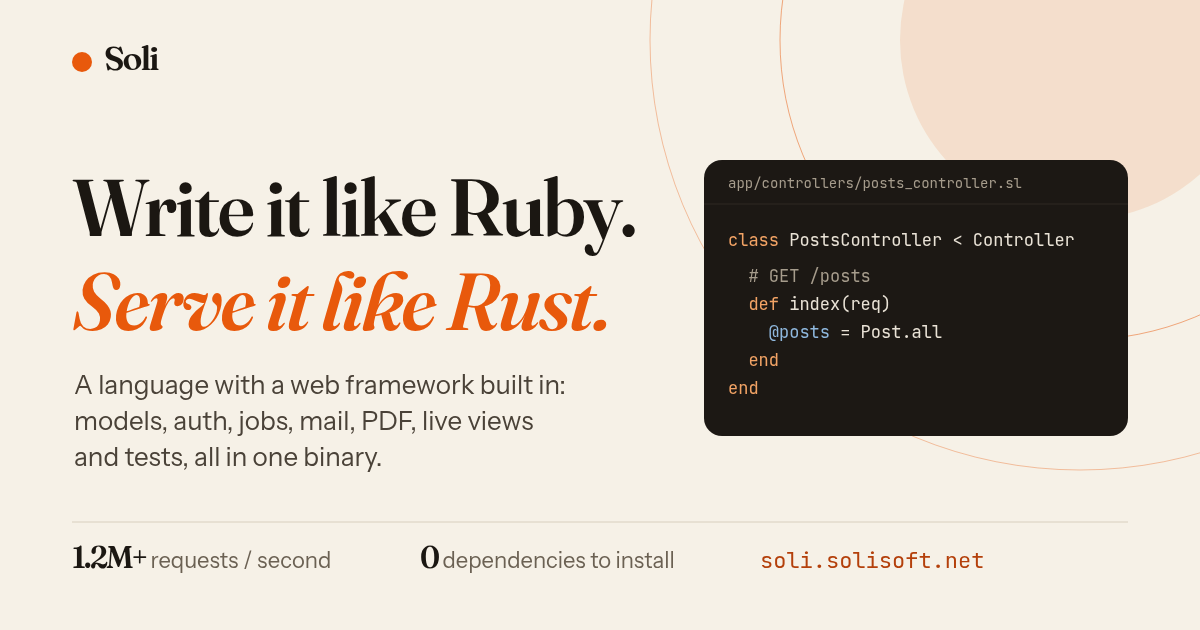
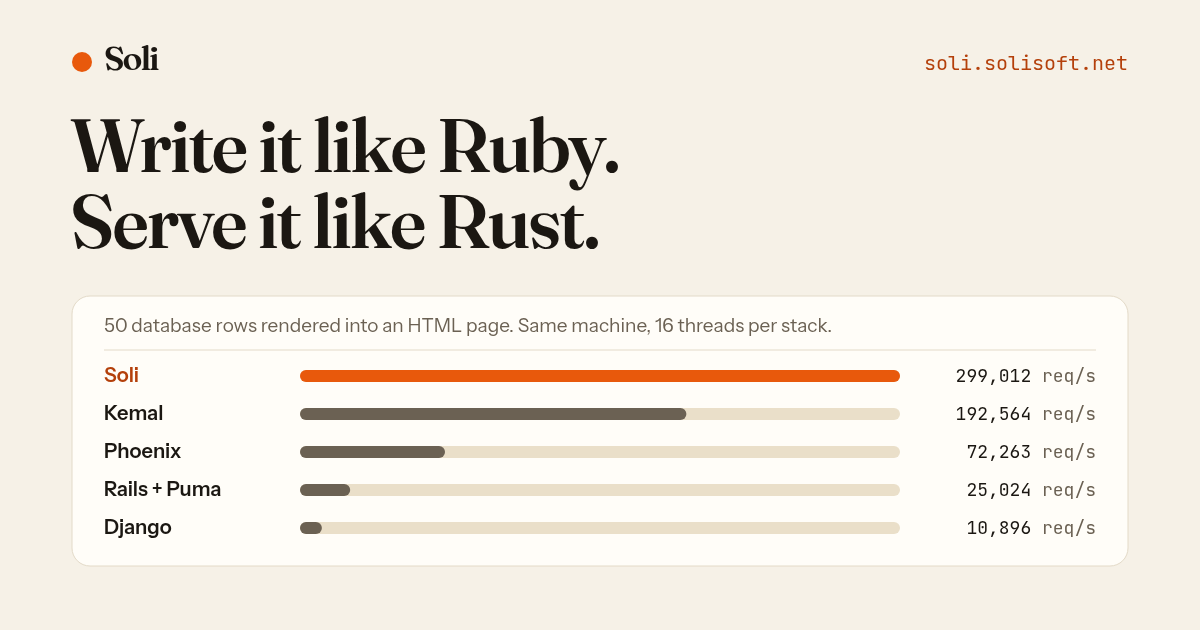
feat(www): home page hero leads with the throughput ramp
The hero sets "Write it like Ruby. / Serve it like Rust." over two lines
and puts a load ramp beside the controller code: the database-read
benchmark (fifty rows rendered into an HTML page, one machine) with each
stack stopping at the throughput it was measured at -- Soli 299,012
requests a second, p99 1.20 ms, 11.9x Rails + Puma's 25,024. The meta
description, the og:image and its alt text say the same.

diff --git a/www/public/css/landing.css b/www/public/css/landing.css
@@ -1,7 +1,6 @@
 /* Landing-page components, shared by every page on layouts/landing (home, AI). */
 .lp-section { padding: clamp(64px, 9vw, 120px) 0; }
 .lp-eyebrow { font-family: 'JetBrains Mono', monospace; font-size: 13px; color: var(--sun-text); }
-.lp-h1 { margin: 0; font-family: 'Fraunces', serif; font-weight: 600; font-size: clamp(40px, min(7vw, 9.5vh), 88px); line-height: 0.98; letter-spacing: -0.035em; }
 .lp-h2 { margin: 0; font-family: 'Fraunces', serif; font-weight: 600; font-size: clamp(34px, 4.6vw, 56px); line-height: 1.05; letter-spacing: -0.03em; }
 .lp-h3 { margin: 0; font-family: 'Fraunces', serif; font-weight: 600; font-size: 24px; letter-spacing: -0.02em; }
 .lp-lead { margin: 0; font-size: clamp(17px, 1.6vw, 20px); line-height: 1.6; color: var(--ink-soft); }
@@ -13,13 +12,45 @@
 .lp-btn-line:hover { background: var(--paper-sunk); }
 .lp-hero .lp-btn { min-height: clamp(46px, 6.5vh, 56px); }
 .lp-chip-cmd { font-family: 'JetBrains Mono', monospace; font-size: 15px; font-weight: 400; }
+@media (max-width: 420px) { .lp-chip-cmd { gap: 8px; padding: 0 18px; font-size: 12.5px; white-space: nowrap; } }
+@media (max-width: 420px) { .lp-chip-cmd { gap: 8px; padding: 0 18px; font-size: 12.5px; white-space: nowrap; } }
 .lp-link { display: inline-flex; align-items: center; gap: 8px; font-weight: 600; color: var(--sun-text); }
 .lp-link:hover { text-decoration: underline; text-underline-offset: 4px; }
 
-/* Sun motif */
-.lp-hero { position: relative; overflow: hidden; display: flex; align-items: center; min-height: calc(100vh - 81px); min-height: calc(100svh - 81px); }
-.lp-hero > .lp-wrap { width: 100%; }
-.lp-ring { position: absolute; border-radius: 50%; pointer-events: none; }
+/* Hero: slogan and copy beside the code, then the load ramp (markup and
+   numbers: home/index; the replay script sits at the bottom of that page). */
+.lp-hero { padding: clamp(28px, 5vh, 64px) 0 clamp(24px, 5vh, 56px); }
+.lp-hero-top { display: grid; grid-template-columns: minmax(0, 7fr) minmax(0, 5fr); gap: clamp(32px, 4vw, 56px); align-items: center; }
+.lp-hero-copy { display: flex; flex-direction: column; gap: clamp(18px, 3vh, 26px); min-width: 0; }
+.lp-hero-h1 { margin: 0; font-family: 'Fraunces', serif; font-weight: 600; font-size: clamp(42px, 5.2vw, 76px); line-height: 0.96; letter-spacing: -0.035em; }
+.lp-hero-h1 > span { white-space: nowrap; }
+.lp-hero .lp-code { box-shadow: none; }
+.lp-hero .lp-code-bar { flex-wrap: wrap; row-gap: 2px; padding-top: 8px; padding-bottom: 8px; }
+.lp-hero .lp-code pre { line-height: 1.65; }
+
+.lp-ramp { margin: clamp(32px, 6vh, 56px) 0 0; padding: 24px clamp(18px, 3vw, 36px) 22px; border-radius: 20px; background: var(--paper-raised); border: 1px solid var(--line-soft); }
+.lp-ramp-head { display: flex; flex-wrap: wrap; align-items: flex-end; justify-content: space-between; gap: 16px; padding-bottom: 18px; margin-bottom: 10px; border-bottom: 1px solid var(--line-soft); }
+.lp-ramp-label { font-size: 15px; color: var(--ink-faint); }
+.lp-ramp-load { font-family: 'Fraunces', serif; font-weight: 600; font-size: clamp(38px, 4.4vw, 58px); line-height: 1; letter-spacing: -0.02em; font-variant-numeric: tabular-nums; }
+.lp-ramp-unit { font-family: 'Instrument Sans', sans-serif; font-weight: 500; font-size: 18px; letter-spacing: 0; color: var(--ink-soft); }
+.lp-lane { display: grid; grid-template-columns: 150px minmax(0, 1fr) 8ch 19ch; column-gap: 20px; align-items: center; min-height: 40px; font-variant-numeric: tabular-nums; }
+.lp-lane-name { font-weight: 600; }
+.lp-lane.is-soli .lp-lane-name { color: var(--sun-text); }
+.lp-lane-track { height: 14px; border-radius: 7px; background: var(--paper-sunk); overflow: hidden; }
+.lp-lane-bar { height: 100%; border-radius: 7px; background: var(--ink-faint); }
+.lp-lane.is-soli .lp-lane-bar { background: var(--sun); }
+.lp-ramp.is-running .lp-lane:not(.is-capped):not(.is-soli) .lp-lane-bar { background: var(--ink-soft); }
+.lp-lane-value, .lp-lane-note { font-family: 'JetBrains Mono', monospace; font-size: 14px; white-space: nowrap; }
+.lp-lane-value { text-align: right; }
+.lp-lane-note { color: var(--ink-faint); }
+.lp-ramp.is-running .lp-lane:not(.is-capped) .lp-lane-note { visibility: hidden; }
+.lp-ramp-caption { margin-top: 14px; font-size: 14px; line-height: 1.55; color: var(--ink-faint); }
+/* Phones: name and number on one line, the bar under them, no p99 note */
+@media (max-width: 700px) {
+    .lp-lane { grid-template-columns: minmax(0, 1fr) auto; gap: 6px 12px; min-height: 0; padding: 6px 0; }
+    .lp-lane-track { grid-column: 1 / -1; grid-row: 2; }
+    .lp-lane-note { display: none; }
+}
 
 /* Code panels */
 .lp-code { border-radius: 18px; background: var(--night); color: #E9E2D6; overflow: hidden; box-shadow: 0 30px 60px -24px rgba(27, 23, 18, 0.45); }
@@ -34,16 +65,10 @@
 .lp-code .n { color: #E9E2D6; }
 .lp-code .ok { color: #7EC99A; }
 /* Hero sample: never scrolls. The type scales with the panel so its longest
-   line (43 columns; a JetBrains Mono column is 0.6em, so 25.8em) always fits. */
+   line (51 columns; a JetBrains Mono column is 0.6em, so 30.6em) always fits. */
 .lp-code-fit { container-type: inline-size; }
-.lp-code-fit pre { --pad: clamp(14px, 5cqi, 24px); padding: 22px var(--pad); font-size: min(14.5px, calc((100cqi - 2 * var(--pad)) / 26)); }
+.lp-code-fit pre { --pad: clamp(14px, 5cqi, 24px); padding: 20px var(--pad); font-size: min(14px, calc((100cqi - 2 * var(--pad)) / 31)); }
 
-/* Proof strip */
-.lp-proof { display: grid; grid-template-columns: repeat(4, minmax(0, 1fr)); border-top: 1px solid var(--ink); border-bottom: 1px solid var(--ink); }
-.lp-proof > div { display: flex; flex-direction: column; gap: 6px; padding: 32px 0 32px 24px; border-left: 1px solid var(--line); }
-.lp-proof > div:first-child { border-left: 0; padding-left: 0; }
-.lp-proof strong { font-family: 'Fraunces', serif; font-weight: 600; font-size: clamp(34px, 4vw, 48px); letter-spacing: -0.02em; }
-.lp-proof span { font-size: 16px; color: var(--ink-soft); }
 
 /* Cards */
 .lp-grid-2 { display: grid; grid-template-columns: repeat(2, minmax(0, 1fr)); gap: 24px; }
@@ -92,13 +117,11 @@
 .lp-cta .lp-btn-line:hover { background: rgba(27, 23, 18, .1); }
 
 .lp-split { display: grid; grid-template-columns: repeat(2, minmax(0, 1fr)); gap: 56px; align-items: center; }
-.lp-hero-grid { display: grid; grid-template-columns: minmax(0, 1.15fr) minmax(0, 0.85fr); gap: 48px; align-items: center; }
 
 @media (max-width: 900px) {
-    .lp-hero-grid, .lp-split, .lp-grid-2, .lp-grid-3 { grid-template-columns: 1fr; gap: 24px; }
+    .lp-split, .lp-grid-2, .lp-grid-3 { grid-template-columns: 1fr; gap: 24px; }
     .lp-split { gap: 40px; }
-    .lp-proof { grid-template-columns: repeat(2, minmax(0, 1fr)); }
-    .lp-proof > div:nth-child(3) { border-left: 0; padding-left: 0; }
+    .lp-hero-top { grid-template-columns: minmax(0, 1fr); }
     .lp-trace { --rail-x: 8px; --gutter: 36px; }
 }
 @media (prefers-reduced-motion: reduce) { .lp-pulse { display: none; } }
